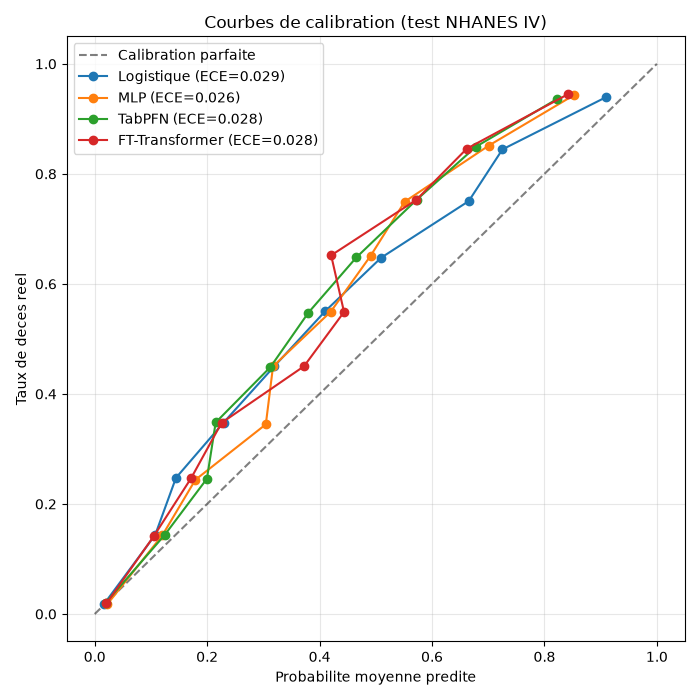
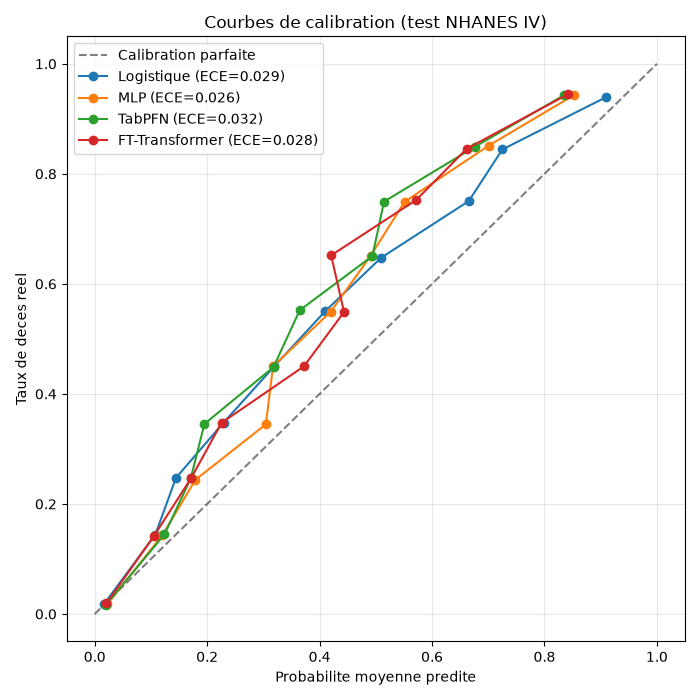
feat: TabPFN avec 5000 lignes de contexte (AUC 0.9020 -> 0.9072)

diff --git a/scripts/entrainer_tabpfn.py b/scripts/entrainer_tabpfn.py
@@ -42,8 +42,9 @@ def entrainer_et_evaluer(X_train, y_train, X_test, y_test):
     if len(X_train) > 5000:
         rng = np.random.default_rng(seed=42)
         indices = rng.choice(len(X_train), size=5000, replace=False)
+        X_train_sub, y_train_sub = X_train[indices], y_train[indices]
     else:
-        X_train_sub, y_train_sub = X_train, y_train
+            X_train_sub, y_train_sub = X_train, y_train
         
     modele = TabPFNClassifier(device="cpu", ignore_pretraining_limits=True)
     modele.fit(X_train_sub, y_train_sub)
